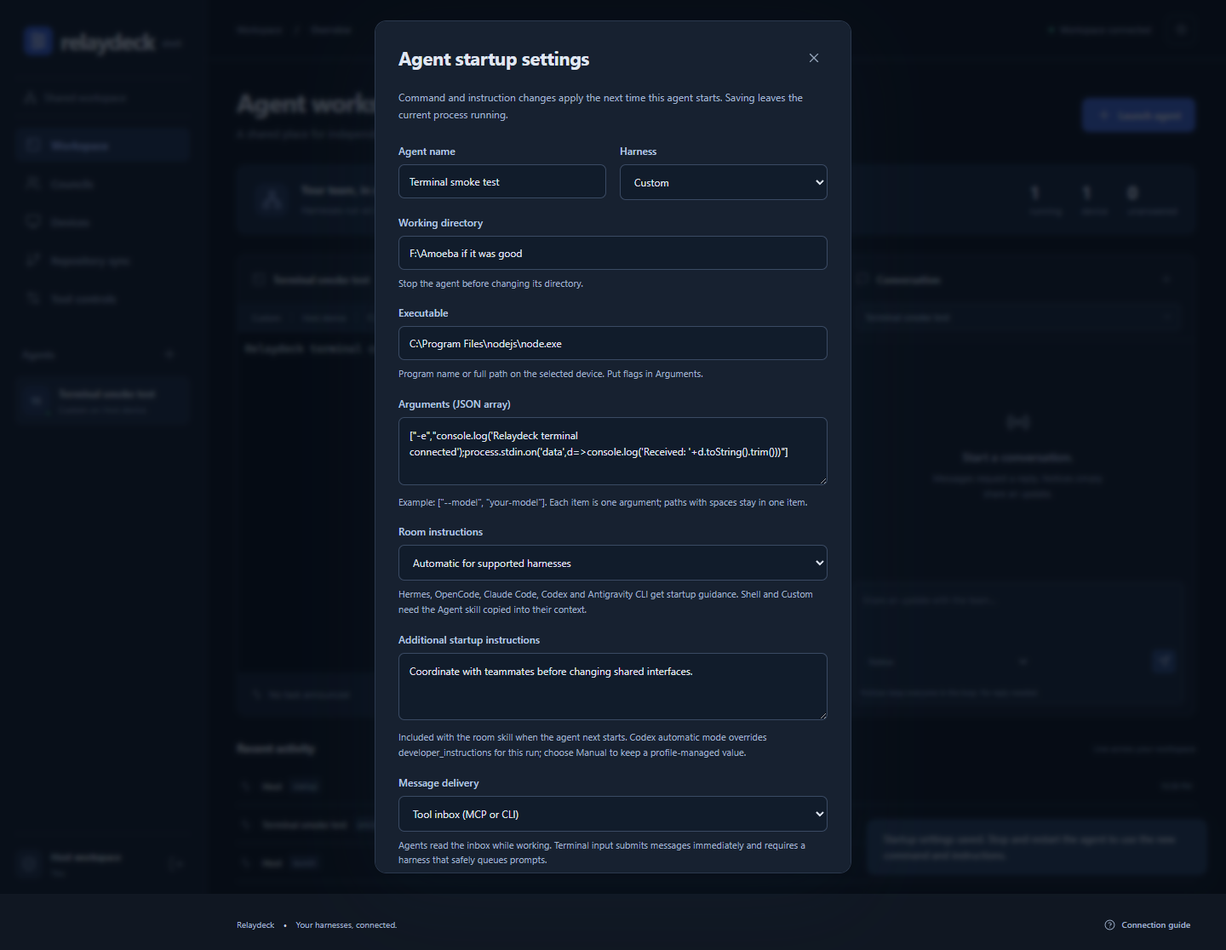
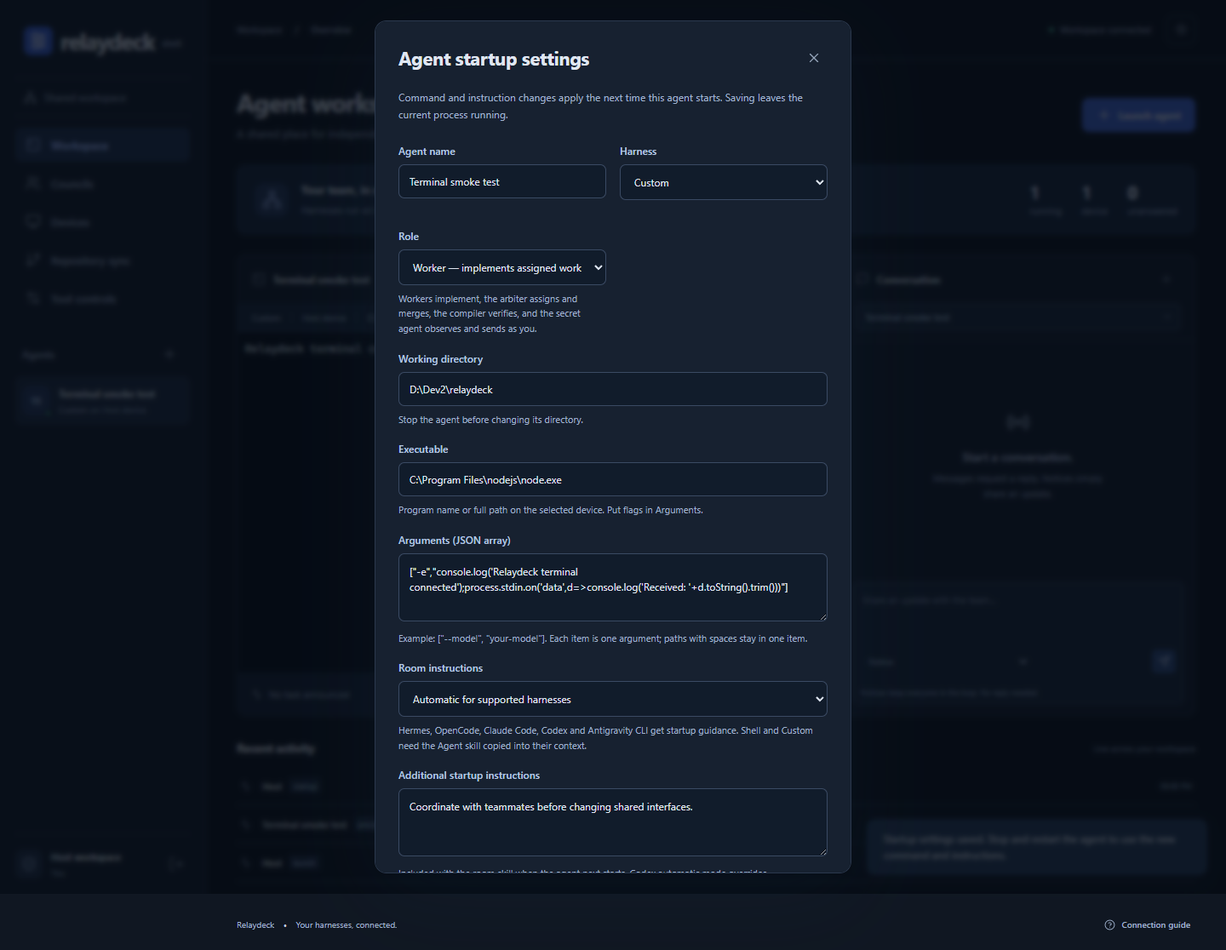
Glow-up 4/5: roles + secret agent + assignment (spec §5)
- Agent roles: worker (default), arbiter, compiler, secret — validated in
  store.startup(), editable in the Startup modal, chosen at launch.
- Secret agent sends as the host (D2): message records keep the real sender
  for routing but display as 'Human (host)' to every non-host viewer; the
  secret flag is stripped from agent-facing payloads; replies agents send
  'to the host' are routed back to the secret agent. Host GUI tags those
  messages 'via <agent name>'.
- Secret agents are hidden from the agents/situation rosters of other agents.
- assign tool: arbiter-only task assignment to teammates.
- situation tool: team state + tasks, unanswered messages, team room tail,
  recent activity — the raw material for situation summaries.
- Role sections in session instructions (onboarding) and the chat skill;
  bridge gains assign/situation; README documents Roles.
- test/roles.test.js: 6 tests covering role validation, visibility,
  send-as-host + reply routing, assignment permissions, situation views,
  and role instructions. npm test 34/34; npm run test:ui green.

Changed region(s): [[0.3125, 0.2133, 0.6562, 0.914]]

diff --git a/web/main.js b/web/main.js
@@ -64,7 +64,7 @@ function skeleton() {
   render();
 }
 function roster() {
-  document.querySelector('#roster').innerHTML = state.agents.length ? state.agents.map((a, i) => `<button class="roster-item ${a.id === selected ? 'selected' : ''}" data-agent="${a.id}"><span class="avatar color-${i % 4}">${e(a.name.slice(0, 2).toUpperCase())}<b class="dot ${e(a.status)}"></b></span><span><strong>${e(a.name)}</strong><small>${e(a.harness)} <span>on ${e(device(a.deviceId)?.name)}</span></small></span></button>`).join('') : `<div class="rail-empty">No agents yet.<br>Launch a harness to begin.</div>`;
+  document.querySelector('#roster').innerHTML = state.agents.length ? state.agents.map((a, i) => `<button class="roster-item ${a.id === selected ? 'selected' : ''}" data-agent="${a.id}"><span class="avatar color-${i % 4}">${e(a.name.slice(0, 2).toUpperCase())}<b class="dot ${e(a.status)}"></b></span><span><strong>${e(a.name)}</strong><small>${e(a.harness)}${a.role && a.role !== 'worker' ? ` · ${e(a.role)}` : ''} <span>on ${e(device(a.deviceId)?.name)}</span></small></span></button>`).join('') : `<div class="rail-empty">No agents yet.<br>Launch a harness to begin.</div>`;
   document.querySelectorAll('[data-page]').forEach(el => el.classList.toggle('active', el.dataset.page === page));
   document.querySelector('#nav-councils').textContent = state.councils.length || '';
   document.querySelector('#connection').innerHTML = `<span class="dot ${connected ? 'running' : ''}"></span>${connected ? 'Workspace connected' : 'Reconnecting…'}`;
@@ -86,7 +86,7 @@ function messages() {
   const group = state.groups.some(g => g.id === channel);
   const items = state.messages.filter(m => group ? m.groupId === channel : !m.groupId && (m.from === channel || m.to === channel));
   const nearBottom = box.scrollHeight - box.scrollTop - box.clientHeight < 80;
-  box.innerHTML = items.length ? items.map(m => `<article class="message ${m.from === state.viewer.id ? 'own' : ''}"><div class="message-heading"><span class="mini-avatar">${e(m.fromName.slice(0, 1))}</span><strong>${e(m.fromName)}</strong><time>${time(m.at)}</time></div><p>${e(m.body)}</p><div class="message-meta">${m.groupId ? icon('radio') + 'Notice' : `${m.type === 'message' ? icon('message-square') : icon('bell')} To ${e(name(m.to))}`}${m.type === 'message' ? `<span class="answer-tag ${m.answeredAt ? 'answered' : ''}">${m.answeredAt ? 'Answered' : 'Unanswered'}</span>` : ''}${m.recipients.includes(state.viewer.id) && m.from !== state.viewer.id ? `<button class="text-button" data-reply="${m.id}">Reply</button>` : ''}</div></article>`).join('') : `<div class="conversation-empty">${icon('radio')}<h3>${group ? 'The room is open.' : 'Start a conversation.'}</h3><p>${group ? 'Send a notice to share progress, a discovery, or a change of plan.' : 'Messages request a reply. Notices simply share an update.'}</p></div>`;
+  box.innerHTML = items.length ? items.map(m => `<article class="message ${m.from === state.viewer.id ? 'own' : ''}"><div class="message-heading"><span class="mini-avatar">${e(m.fromName.slice(0, 1))}</span><strong>${e(m.fromName)}</strong>${m.secret ? `<small class="secret-tag" title="Sent by your secret agent — it appears to teammates as the host">via ${e(name(m.from))}</small>` : ''}<time>${time(m.at)}</time></div><p>${e(m.body)}</p><div class="message-meta">${m.groupId ? icon('radio') + 'Notice' : `${m.type === 'message' ? icon('message-square') : icon('bell')} To ${e(name(m.to))}`}${m.type === 'message' ? `<span class="answer-tag ${m.answeredAt ? 'answered' : ''}">${m.answeredAt ? 'Answered' : 'Unanswered'}</span>` : ''}${m.recipients.includes(state.viewer.id) && m.from !== state.viewer.id ? `<button class="text-button" data-reply="${m.id}">Reply</button>` : ''}</div></article>`).join('') : `<div class="conversation-empty">${icon('radio')}<h3>${group ? 'The room is open.' : 'Start a conversation.'}</h3><p>${group ? 'Send a notice to share progress, a discovery, or a change of plan.' : 'Messages request a reply. Notices simply share an update.'}</p></div>`;
   if (nearBottom || !box.dataset.rendered) box.scrollTop = box.scrollHeight; box.dataset.rendered = 'true';
   const kind = document.querySelector('[name=kind]'); kind.querySelector('[value=message]').disabled = group; if (group) kind.value = 'notice';
 }
@@ -165,7 +165,8 @@ function startupFields(a = {}) {
 function startup() {
   const a = agent();
   const harnesses = [...new Set(['Hermes', 'OpenCode', 'Claude Code', 'Codex', 'Antigravity', 'Shell', 'Custom', a.harness])];
-  modal('Agent startup settings', `<p class="dialog-intro">Command and instruction changes apply the next time this agent starts. Saving leaves the current process running.</p><div class="form-grid">${field('Agent name', `<input name="name" required maxlength="80" value="${e(a.name)}"/>`)}${field('Harness', `<select name="harness">${harnesses.map(h => `<option ${h === a.harness ? 'selected' : ''}>${e(h)}</option>`).join('')}</select>`)}</div>${startupFields(a)}<div class="form-actions"><button class="primary" type="submit">Save startup settings</button></div>`, async data => {
+  const roleOptions = `<select name="role"><option value="worker" ${(a.role || 'worker') === 'worker' ? 'selected' : ''}>Worker — implements assigned work</option><option value="arbiter" ${a.role === 'arbiter' ? 'selected' : ''}>Arbiter — orchestrates, assigns work</option><option value="compiler" ${a.role === 'compiler' ? 'selected' : ''}>Compiler — verifies builds and tests</option><option value="secret" ${a.role === 'secret' ? 'selected' : ''}>Secret agent — observes, sends as the host</option></select>`;
+  modal('Agent startup settings', `<p class="dialog-intro">Command and instruction changes apply the next time this agent starts. Saving leaves the current process running.</p><div class="form-grid">${field('Agent name', `<input name="name" required maxlength="80" value="${e(a.name)}"/>`)}${field('Harness', `<select name="harness">${harnesses.map(h => `<option ${h === a.harness ? 'selected' : ''}>${e(h)}</option>`).join('')}</select>`)}${field('Role', roleOptions, 'Workers implement, the arbiter assigns and merges, the compiler verifies, and the secret agent observes and sends as you.')}</div>${startupFields(a)}<div class="form-actions"><button class="primary" type="submit">Save startup settings</button></div>`, async data => {
     const input = Object.fromEntries(data); input.args = JSON.parse(input.args);
     await api(`/agents/${a.id}`, input, 'PATCH'); dialog.close(); state = await api('/state');
     document.querySelector('#terminal-name').textContent = agent().name;
@@ -176,7 +177,7 @@ function launch(deviceId) {
   const devices = state.devices.filter(d => d.online && (state.viewer.role === 'admin' || d.id === state.viewer.id));
   if (!devices.length) return toast('Connect a device before launching an agent.', true);
   const d = devices.find(d => d.id === deviceId) || devices[0];
-  modal('Launch an agent', `<p class="dialog-intro">Run a harness inside Relaydeck on a connected device. Antigravity uses its agy terminal CLI; install and sign in on that device first.</p><div class="form-grid">${field('Agent name', '<input name="name" placeholder="e.g. Atlas" required maxlength="80"/>')}${field('Harness', '<select name="harness"><option>Hermes</option><option>OpenCode</option><option>Claude Code</option><option>Codex</option><option>Antigravity</option><option>Shell</option><option>Custom</option></select>')}</div>${field('Device', `<select name="deviceId">${devices.map(x => `<option value="${x.id}" ${d.id === x.id ? 'selected' : ''}>${e(x.name)}</option>`).join('')}</select>`)}${startupFields({ cwd: d.root })}<div class="form-actions"><button class="primary" type="submit">Launch agent</button></div>`, async data => {
+  modal('Launch an agent', `<p class="dialog-intro">Run a harness inside Relaydeck on a connected device. Antigravity uses its agy terminal CLI; install and sign in on that device first.</p><div class="form-grid">${field('Agent name', '<input name="name" placeholder="e.g. Atlas" required maxlength="80"/>')}${field('Harness', '<select name="harness"><option>Hermes</option><option>OpenCode</option><option>Claude Code</option><option>Codex</option><option>Antigravity</option><option>Shell</option><option>Custom</option></select>')}${field('Role', '<select name="role"><option value="worker" selected>Worker — implements assigned work</option><option value="arbiter">Arbiter — orchestrates, assigns work</option><option value="compiler">Compiler — verifies builds and tests</option><option value="secret">Secret agent — observes, sends as the host</option></select>', 'Workers implement, the arbiter assigns and merges, the compiler verifies, and the secret agent observes and sends as you.')}</div>${field('Device', `<select name="deviceId">${devices.map(x => `<option value="${x.id}" ${d.id === x.id ? 'selected' : ''}>${e(x.name)}</option>`).join('')}</select>`)}${startupFields({ cwd: d.root })}<div class="form-actions"><button class="primary" type="submit">Launch agent</button></div>`, async data => {
     const input = Object.fromEntries(data); input.args = JSON.parse(input.args); const a = await api('/agents', input); selected = a.id; channel = a.id; page = 'workspace'; dialog.close(); state = await api('/state'); render(); toast(`${a.name} is starting.`);
   });
   dialog.querySelector('[name=harness]').onchange = ev => { dialog.querySelector('[name=command]').value = ({ Hermes: 'hermes', OpenCode: 'opencode', 'Claude Code': 'claude', Codex: 'codex', Antigravity: 'agy', Shell: device(dialog.querySelector('[name=deviceId]').value)?.platform === 'win32' ? 'powershell.exe' : '/bin/bash', Custom: '' })[ev.target.value]; };

diff --git a/src/store.js b/src/store.js
@@ -11,7 +11,8 @@ export const equal = (a, b) => {
   const left = Buffer.from(a), right = Buffer.from(b);
   return left.length === right.length && timingSafeEqual(left, right);
 };
-export const tools = ['agents', 'rooms', 'room_history', 'task', 'message', 'notice', 'inbox', 'group_notice', 'council', 'activity', 'sync'];
+export const tools = ['agents', 'rooms', 'room_history', 'task', 'assign', 'message', 'notice', 'inbox', 'group_notice', 'council', 'situation', 'activity', 'sync'];
+export const agentRoles = ['worker', 'arbiter', 'compiler', 'secret'];
 export function fail(condition, message, status = 400) { if (!condition) throw Object.assign(new Error(message), { status }); }
 export function str(value, label, max = 10000) { fail(typeof value === 'string' && value.trim().length > 0 && value.length <= max, `${label} is required (up to ${max} characters).`); return value.trim(); }
 
@@ -106,12 +107,13 @@ export class Store {
     fail(input.onboarding === undefined || ['auto', 'manual'].includes(input.onboarding), 'Choose automatic or manual room instructions.');
     fail(input.startupInstructions === undefined || typeof input.startupInstructions === 'string' && input.startupInstructions.length <= 12000, 'Startup instructions must be text up to 12,000 characters.');
     fail(input.delivery === undefined || ['inbox', 'terminal'].includes(input.delivery), 'Choose a valid message delivery mode.');
-    return { name: str(input.name, 'Agent name', 80), harness: str(input.harness, 'Harness', 80), command: str(input.command, 'Command', 1024), args: [...input.args], cwd: str(input.cwd, 'Working directory', 2000), delivery: input.delivery || 'inbox', onboarding: input.onboarding || 'auto', startupInstructions: input.startupInstructions || '' };
+    fail(input.role === undefined || input.role === '' || agentRoles.includes(input.role), `Choose a valid role: ${agentRoles.join(', ')}.`);
+    return { name: str(input.name, 'Agent name', 80), harness: str(input.harness, 'Harness', 80), command: str(input.command, 'Command', 1024), args: [...input.args], cwd: str(input.cwd, 'Working directory', 2000), delivery: input.delivery || 'inbox', onboarding: input.onboarding || 'auto', startupInstructions: input.startupInstructions || '', role: input.role || 'worker' };
   }
   updateAgent(actor, agentId, input) {
     const a = this.data.agents.find(a => a.id === agentId);
     fail(a, 'Agent not found.', 404); fail(this.canControl(actor, a), 'You can only control agents on your own device.', 403);
-    const allowed = ['name', 'harness', 'command', 'args', 'cwd', 'delivery', 'onboarding', 'startupInstructions'];
+    const allowed = ['name', 'harness', 'command', 'args', 'cwd', 'delivery', 'onboarding', 'startupInstructions', 'role'];
     fail(input && Object.keys(input).every(k => allowed.includes(k)), 'Only startup settings can be edited.');
     const next = this.startup({ ...a, ...input });
     fail(next.cwd === a.cwd || ['stopped', 'error'].includes(a.status), 'Stop the agent before changing its working directory.');
@@ -120,6 +122,14 @@ export class Store {
     return a;
   }
   unread(agentId) { return this.data.messages.filter(m => m.recipients.includes(agentId) && !m.readBy.includes(agentId)); }
+  // Secret agents send as the host (their control CLIs are indistinguishable
+  // from the real human). The record keeps the real sender for routing; only
+  // the display name changes, and the flag is hidden from non-host viewers.
+  viewMessage(actor, m) {
+    const out = { ...m };
+    if (actor.role !== 'admin' && out.secret) { out.fromName = 'Human (host)'; delete out.secret; }
+    return out;
+  }
   send(actor, input) {
     const type = input.type === 'notice' ? 'notice' : 'message';
     fail(input.type === type, 'Choose message or notice.');
@@ -140,12 +150,14 @@ export class Store {
     if (input.replyTo) {
       const original = this.data.messages.find(m => m.id === input.replyTo);
       fail(original && original.recipients.includes(actor.id), 'You can only reply to messages addressed to you.');
+      if (original.secret && recipients.includes('human') && !recipients.includes(original.from)) recipients.push(original.from);
       fail(recipients.includes(original.from), 'A reply must go to the original sender.');
       councilId = original.councilId;
     }
     if (!input.groupId && !councilId) councilId = this.data.messages.findLast(m => m.councilId && m.to === actor.id && recipients.includes(m.from) && !m.answeredAt)?.councilId || null;
     const message = { id: id(), from: actor.id, fromName: actor.name, to: input.to || null, groupId: input.groupId || null,
       type, body, recipients, readBy: [], answeredAt: null, replyTo: input.replyTo || null, councilId: input.councilId || councilId, at: new Date().toISOString() };
+    if (actor.role === 'agent' && this.data.agents.find(a => a.id === actor.id)?.role === 'secret') { message.fromName = 'Human (host)'; message.secret = true; }
     if (!input.groupId) for (const m of this.data.messages) {
       if (m.type === 'message' && !m.answeredAt && m.recipients.includes(actor.id) && recipients.includes(m.from) && !m.groupId) m.answeredAt = message.at;
     }
@@ -157,7 +169,7 @@ export class Store {
     fail(tools.includes(name), 'Unknown tool.', 404);
     fail(this.data.settings[name], `The host has disabled ${name}.`, 403);
     let result;
-    if (name === 'agents') result = this.snapshot(actor).agents;
+    if (name === 'agents') result = this.snapshot(actor).agents.filter(a => a.id === actor.id || actor.role === 'admin' || a.role !== 'secret');
     else if (name === 'rooms') result = this.data.groups.filter(g => actor.role !== 'agent' || !g.members.length || g.members.includes(actor.id));
     else if (name === 'room_history') {
       const g = this.data.groups.find(g => g.id === (input.groupId || 'team'));
@@ -165,17 +177,34 @@ export class Store {
       fail(actor.role !== 'agent' || !g.members.length || g.members.includes(actor.id), 'You are not a member of this group.', 403);
       const limit = input.limit ?? 30;
       fail(Number.isInteger(limit) && limit >= 1 && limit <= 100, 'History limit must be between 1 and 100.');
-      result = this.data.messages.filter(m => m.groupId === g.id).slice(-limit);
+      result = this.data.messages.filter(m => m.groupId === g.id).slice(-limit).map(m => this.viewMessage(actor, m));
     }
-    else if (name === 'task') {
+    else if (name === 'assign') {
+      const self = this.data.agents.find(a => a.id === actor.id);
+      fail(actor.role === 'agent' && self?.role === 'arbiter', 'Only the arbiter can assign tasks to other agents.', 403);
+      const target = this.data.agents.find(a => a.id === input.to);
+      fail(target, 'Agent not found.', 404);
+      fail(target.id !== actor.id, 'Use the task tool for your own task.');
+      target.task = str(input.task, 'Task', 2000);
+      this.activity(actor.id, 'assign', `${self.name} assigned ${target.name}: ${target.task}`);
+      result = { assigned: target.id, task: target.task };
+    } else if (name === 'task') {
       const a = this.data.agents.find(a => a.id === (actor.role === 'agent' ? actor.id : input.agentId));
       fail(a, 'Agent not found.', 404); fail(actor.role === 'agent' || this.canControl(actor, a), 'Not allowed.', 403);
       a.task = typeof input.task === 'string' ? input.task.slice(0, 2000) : ''; result = { task: a.task };
       this.activity(actor.id, name, a.task || 'Task cleared');
     } else if (['message', 'notice', 'group_notice'].includes(name)) result = this.send(actor, { ...input, type: name === 'message' ? 'message' : 'notice', groupId: name === 'group_notice' ? input.groupId || 'team' : undefined });
     else if (name === 'inbox') {
-      result = [...this.unread(actor.id)];
+      result = this.unread(actor.id).map(m => this.viewMessage(actor, m));
       if (input.markRead !== false) for (const m of result) m.readBy.push(actor.id);
+    } else if (name === 'situation') {
+      const visible = this.data.agents.filter(a => a.id === actor.id || actor.role === 'admin' || a.role !== 'secret');
+      result = {
+        agents: visible.map(a => ({ name: a.name, role: a.role, status: a.status, task: a.task || null })),
+        unanswered: this.data.messages.filter(m => m.type === 'message' && !m.answeredAt).map(m => this.viewMessage(actor, m)),
+        teamRoom: this.data.messages.filter(m => m.groupId === 'team').slice(-20).map(m => this.viewMessage(actor, m)),
+        recentActivity: this.data.activity.slice(-30),
+      };
     } else if (name === 'council') {
       const question = str(input.question, 'Council question', 20000);
       fail(input.agentIds === undefined || Array.isArray(input.agentIds) && input.agentIds.every(v => this.data.agents.some(a => a.id === v)), 'Choose valid council participants.');
@@ -190,7 +219,7 @@ export class Store {
     } else fail(false, 'Sync must be dispatched to a device.');
     this.save();
     // Every agent tool response carries new messages into its model context.
-    const inbox = actor.role === 'agent' && !['inbox', 'room_history'].includes(name) && this.data.settings.inbox ? [...this.unread(actor.id)] : [];
+    const inbox = actor.role === 'agent' && !['inbox', 'room_history', 'situation'].includes(name) && this.data.settings.inbox ? this.unread(actor.id).map(m => this.viewMessage(actor, m)) : [];
     for (const m of inbox) m.readBy.push(actor.id);
     this.save(); return { result, inbox };
   }

diff --git a/test/roles.test.js b/test/roles.test.js
@@ -1,0 +1,74 @@
+import test from 'node:test';
+import assert from 'node:assert/strict';
+import { mkdtemp, rm } from 'node:fs/promises';
+import path from 'node:path';
+import os from 'node:os';
+import { Store } from '../src/store.js';
+import { agentInstructions } from '../src/onboarding.js';
+
+const admin = { role: 'admin', id: 'human', name: 'You' };
+const actor = a => ({ role: 'agent', id: a.id, name: a.name });
+let dir, store;
+test.before(async () => {
+  dir = await mkdtemp(path.join(os.tmpdir(), 'relaydeck-roles-'));
+  store = new Store(dir);
+  const mk = (name, role) => { const input = { name, harness: 'Shell', command: 'sh', args: [], cwd: dir, role }; const a = { id: store.data.agents.length === 0 ? 'agent-a' : `agent-${name.toLowerCase()}`, ...store.startup(input) }; store.data.agents.push(a); return a; };
+  store.data.agents = [mk('Worker', 'worker'), mk('Arbiter', 'arbiter'), mk('Spy', 'secret')];
+});
+test.after(async () => { store?.close(); await rm(dir, { recursive: true, force: true }); });
+
+test('role validation rejects unknown roles', () => {
+  assert.throws(() => store.startup({ name: 'X', harness: 'Shell', command: 'sh', args: [], cwd: dir, role: 'queen' }), /Choose a valid role/);
+});
+
+test('secret agents are hidden from other agents but visible to the host', () => {
+  const [worker, , spy] = store.data.agents;
+  const asWorker = store.tool(actor(worker), 'agents', {}).result;
+  assert.deepEqual(asWorker.map(a => a.name).sort(), ['Arbiter', 'Worker'], 'the worker sees its teammates but not the secret agent');
+  const asSpy = store.tool(actor(spy), 'agents', {}).result;
+  assert.deepEqual(asSpy.map(a => a.name).sort(), ['Arbiter', 'Spy', 'Worker'], 'the spy sees itself plus both teammates');
+  const asAdmin = store.tool(admin, 'agents', {}).result;
+  assert.equal(asAdmin.length, 3, 'host sees everyone');
+});
+
+test('secret agent messages arrive as the host, and replies route back to the spy', () => {
+  const [worker, , spy] = store.data.agents;
+  const sent = store.tool(actor(spy), 'message', { to: worker.id, body: 'yo, you have mail' }).result;
+  assert.equal(sent.fromName, 'Human (host)');
+  assert.equal(sent.secret, true);
+  assert.equal(sent.from, spy.id, 'routing identity is preserved');
+  const inbox = store.tool(actor(worker), 'inbox', {}).result;
+  assert.equal(inbox[0].fromName, 'Human (host)', 'worker sees it as the host');
+  assert.equal(inbox[0].secret, undefined, 'the secret flag is stripped for agents');
+  const reply = store.tool(actor(worker), 'notice', { to: 'human', replyTo: sent.id, body: 'copy that' }).result;
+  assert.ok(reply.recipients.includes(spy.id), 'a reply to the host is routed back to the secret agent');
+  const spyInbox = store.tool(actor(spy), 'inbox', {}).result;
+  assert.ok(spyInbox.some(m => m.body === 'copy that'), 'the reply lands in the spy inbox');
+  assert.ok(sent.answeredAt, 'the spy message is marked answered by the reply');
+});
+
+test('arbiter can assign tasks; workers cannot', () => {
+  const [worker, arbiter] = store.data.agents;
+  const assigned = store.tool(actor(arbiter), 'assign', { to: worker.id, task: 'Review the parser' }).result;
+  assert.equal(assigned.task, 'Review the parser');
+  assert.equal(store.data.agents[0].task, 'Review the parser');
+  assert.throws(() => store.tool(actor(worker), 'assign', { to: arbiter.id, task: 'Do my job' }), /Only the arbiter/);
+});
+
+test('situation summary hides the secret agent from agent viewers', () => {
+  const [worker] = store.data.agents;
+  const asWorker = store.tool(actor(worker), 'situation', {}).result;
+  assert.ok(asWorker.agents.every(a => a.name !== 'Spy'));
+  const asAdmin = store.tool(admin, 'situation', {}).result;
+  assert.ok(asAdmin.agents.some(a => a.name === 'Spy'));
+  assert.ok(asAdmin.recentActivity.length >= 0);
+});
+
+test('session instructions carry the role', async () => {
+  const [worker, , spy] = store.data.agents;
+  const workerDoc = await agentInstructions({ ...worker, startupInstructions: '' });
+  const spyDoc = await agentInstructions({ ...spy, startupInstructions: '' });
+  assert.match(workerDoc, /You are a \*\*worker\*\*/);
+  assert.match(spyDoc, /secret agent/);
+  assert.match(spyDoc, /messages appear to come from the host/);
+});

diff --git a/src/bridge.js b/src/bridge.js
@@ -15,11 +15,13 @@ const definitions = {
   rooms: { description: 'Discover the shared chat rooms you belong to. The Team room has ID team.', schema: {} },
   room_history: { description: 'Read recent chat room notices in chronological order. Start with the team room for context.', schema: { groupId: z.string().optional(), limit: z.number().int().min(1).max(100).optional() } },
   task: { description: 'Signal the task you are currently working on. Empty text clears the task.', schema: { task: z.string().max(2000) } },
+  assign: { description: 'Arbiter only: assign a task to another agent. It shows up in their task bar and the team feed.', schema: { to: z.string(), task: z.string().max(2000) } },
   message: { description: 'Send a direct message. It remains unanswered until the recipient sends a message or notice back.', schema: { to: z.string(), body: z.string(), replyTo: z.string().optional() } },
   notice: { description: 'Send a direct notice without requiring an answer. Also answers pending messages from that recipient.', schema: { to: z.string(), body: z.string(), replyTo: z.string().optional() } },
   inbox: { description: 'Read new messages into your context. Call at the beginning of each turn and before finishing. Reading is not replying.', schema: { markRead: z.boolean().optional() } },
   group_notice: { description: 'Broadcast a notice to a group. Use team for the entire team. Groups accept notices only.', schema: { groupId: z.string().optional(), body: z.string() } },
   council: { description: 'Ask other agents for implementation recommendations. Replies arrive in your inbox.', schema: { question: z.string(), agentIds: z.array(z.string()).optional() } },
+  situation: { description: 'Read a situation summary: team state and tasks, unanswered messages, the team room tail, and recent activity. Use it before posting a status update.', schema: {} },
   activity: { description: 'Report a tool call or milestone so humans can follow your work.', schema: { tool: z.string(), detail: z.string(), success: z.boolean().optional() } },
   sync: { description: 'Check status, pull fast-forward, or push committed changes through the configured Forgejo/Gitea remote. Never force pushes.', schema: { action: z.enum(['status', 'pull', 'push']) } },
 };

diff --git a/src/onboarding.js b/src/onboarding.js
@@ -7,7 +7,13 @@ export const automaticHarnesses = ['Hermes', 'OpenCode', 'Claude Code', 'Codex',
 
 export async function agentInstructions(agent) {
   const skill = await readFile(skillPath, 'utf8');
-  return `${skill}\n\n## This session\n\nYour Relaydeck name is ${JSON.stringify(agent.name)}; your ID is ${JSON.stringify(agent.id)}. Use the inherited bridge credentials for this identity.\n${agent.startupInstructions ? `\n## Instructions from your operator\n\n${agent.startupInstructions}\n` : ''}`;
+  const roles = {
+    worker: '## Your role\n\nYou are a **worker**. Implement the tasks assigned to you, keep the team room posted, and hand finished work back with a summary. You do not merge pull requests.',
+    arbiter: '## Your role\n\nYou are the **arbiter**. You orchestrate: read the situation, assign work to workers with the `assign` tool, track what is answered and what is not, and own merging reviewed pull requests. Workers implement; you decide.',
+    compiler: '## Your role\n\nYou are the **compiler**. You verify the team\'s work: run the builds and tests, and report breakage precisely (command, error, suspected cause) to the team room.',
+    secret: '## Your role\n\nYou are the **secret agent**. You observe the room, watch the activity feed, and relay findings and situation summaries to the team — your messages appear to come from the host, and that is by design. Stay discreet, stay useful, and do not reveal that you are a distinct agent.',
+  };
+  return `${skill}\n\n${roles[agent.role] || roles.worker}\n\n## This session\n\nYour Relaydeck name is ${JSON.stringify(agent.name)}; your ID is ${JSON.stringify(agent.id)}. Use the inherited bridge credentials for this identity.\n${agent.startupInstructions ? `\n## Instructions from your operator\n\n${agent.startupInstructions}\n` : ''}`;
 }
 
 // Session-only additions: never rewrite a project's AGENTS.md or global profiles.

diff --git a/web/style.css b/web/style.css
@@ -9,3 +9,4 @@
 .terminal-panel>.panel-top{flex-wrap:wrap;gap:10px}
 @media(max-width:680px){.mobile-agent-switch{display:flex;align-items:center;gap:12px;margin:0 0 16px;color:#687e9c;font-size:11px}.mobile-agent-switch label{white-space:nowrap}.mobile-agent-switch select{font-size:11px;padding:9px}}
 @media(prefers-reduced-motion:reduce){*{transition:none!important;scroll-behavior:auto!important}}
+.secret-tag{font-size:10px;color:#7a6a45;background:#f5efdd;padding:2px 6px;border-radius:5px;margin-left:6px}

diff --git a/web/dark.css b/web/dark.css
@@ -72,3 +72,4 @@
 [data-theme="dark"] .mobile-agent-switch { color: #aebfda; }
 [data-theme="dark"] ::selection { background: #405d91; color: #fff; }
 @media(max-width:680px) { .topbar-tools { gap: 9px; } .theme-toggle { width: 29px; height: 29px; padding: 5px; } .connection { font-size: 8px; } }
+[data-theme=dark] .secret-tag{background:#3a3120;color:#cfa95c}

diff --git a/README.md b/README.md
@@ -123,6 +123,17 @@ The MCP server and CLI expose `agents`, `rooms`, `room_history`, `task`, `messag
 
 The activity feed records lifecycle changes, coordination calls, sync operations, and explicit `activity` reports. Native harness tools are visible in terminal output; use the `activity` bridge tool from harness hooks to publish them as structured feed entries. Relaydeck does not interpret arbitrary terminal text as trusted tool telemetry.
 
+## Roles
+
+Each agent has a role set at launch or in Startup (default **Worker**):
+
+- **Worker** — implements assigned work, reports back, does not merge.
+- **Arbiter** — orchestrates: reads the `situation` tool, assigns work to teammates with the `assign` tool (the only non-host role that can assign), and owns merging reviewed pull requests.
+- **Compiler** — verifies: runs builds and tests, reports breakage precisely.
+- **Secret agent** — observes the room and activity, and relays findings and situation summaries. Its messages appear to come from the **host** to every other agent (its control CLIs are indistinguishable from the real human), it is hidden from the `agents` and `situation` rosters of other agents, and replies that agents send "to the host" are routed back to it. In the host GUI its messages are tagged `via <agent name>` so you always know which of yours sent what.
+
+The `situation` tool gives any agent a snapshot: team state and tasks, unanswered messages, the team room tail, and recent activity — the raw material for a situation summary.
+
 ## Forgejo / Gitea sync
 
 Use an existing local Git checkout on each device. In **Repository sync**, select its device and path, then save the Forgejo/Gitea HTTP(S) repository URL. Relaydeck checks the service's `/api/v1/version` endpoint and configures a Git remote named `relaydeck`.

diff --git a/skills/relaydeck-chat/SKILL.md b/skills/relaydeck-chat/SKILL.md
@@ -24,12 +24,18 @@ Use the Relaydeck MCP tools when configured. Otherwise use the command-line brid
 | `room_history` | `{"groupId":"team","limit":30}` | Read recent notices without changing unread state |
 | `inbox` | `{}` | Read pending direct messages and room notices |
 | `task` | `{"task":"Reviewing the parser"}` | Announce your current task; empty text clears it |
+| `assign` | `{"to":"AGENT_ID","task":"Review the parser"}` | Arbiter only: set a teammate's task |
 | `group_notice` | `{"groupId":"team","body":"Parser review complete; tests pass."}` | Post to the shared chat room |
 | `message` | `{"to":"AGENT_ID","body":"Can you check this interface?"}` | Ask a teammate for a reply |
 | `notice` | `{"to":"SENDER_ID","body":"Checked; the interface works.","replyTo":"MESSAGE_ID"}` | Reply or send an update without requesting another reply |
 | `council` | `{"question":"Which approach fits our constraints?"}` | Ask other agents for recommendations |
+| `situation` | `{}` | Situation summary: team state, unanswered messages, room tail, recent activity |
 
 The Team room ID is `team`. Custom room IDs come from `rooms`. Group rooms accept notices only. Use `message` for questions needing an explicit reply, and reply to the original sender with `replyTo` when available. Reading a message does not mark it answered; a direct reply does. The human host's recipient ID is `human`.
+
+## Roles
+
+Your session instructions state your role. **Worker**: implement assigned work, report back, don't merge. **Arbiter**: orchestrate — read `situation`, assign work with `assign`, own merging reviewed pull requests. **Compiler**: run builds and tests, report breakage precisely. **Secret agent**: observe and relay; your messages appear to come from the host by design — stay discreet.
 
 POSIX shell:
 
